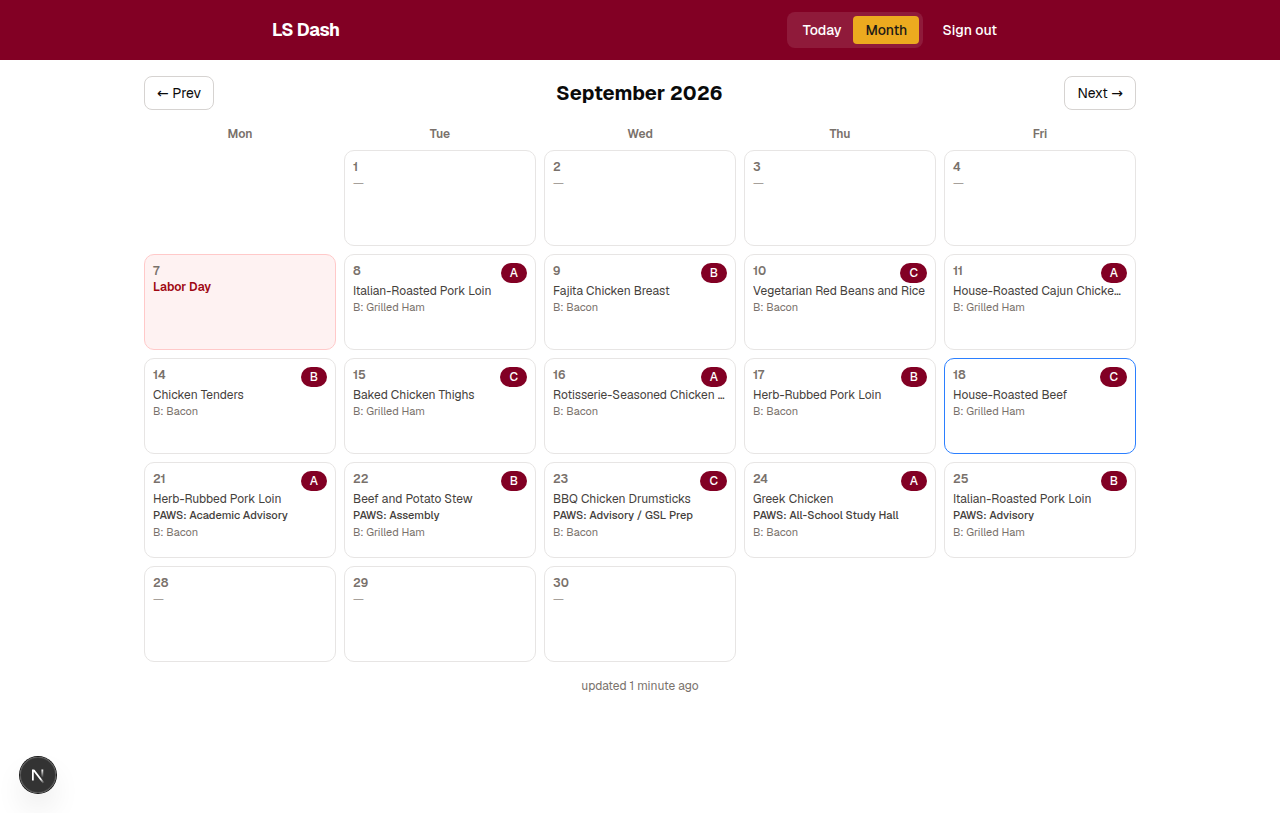
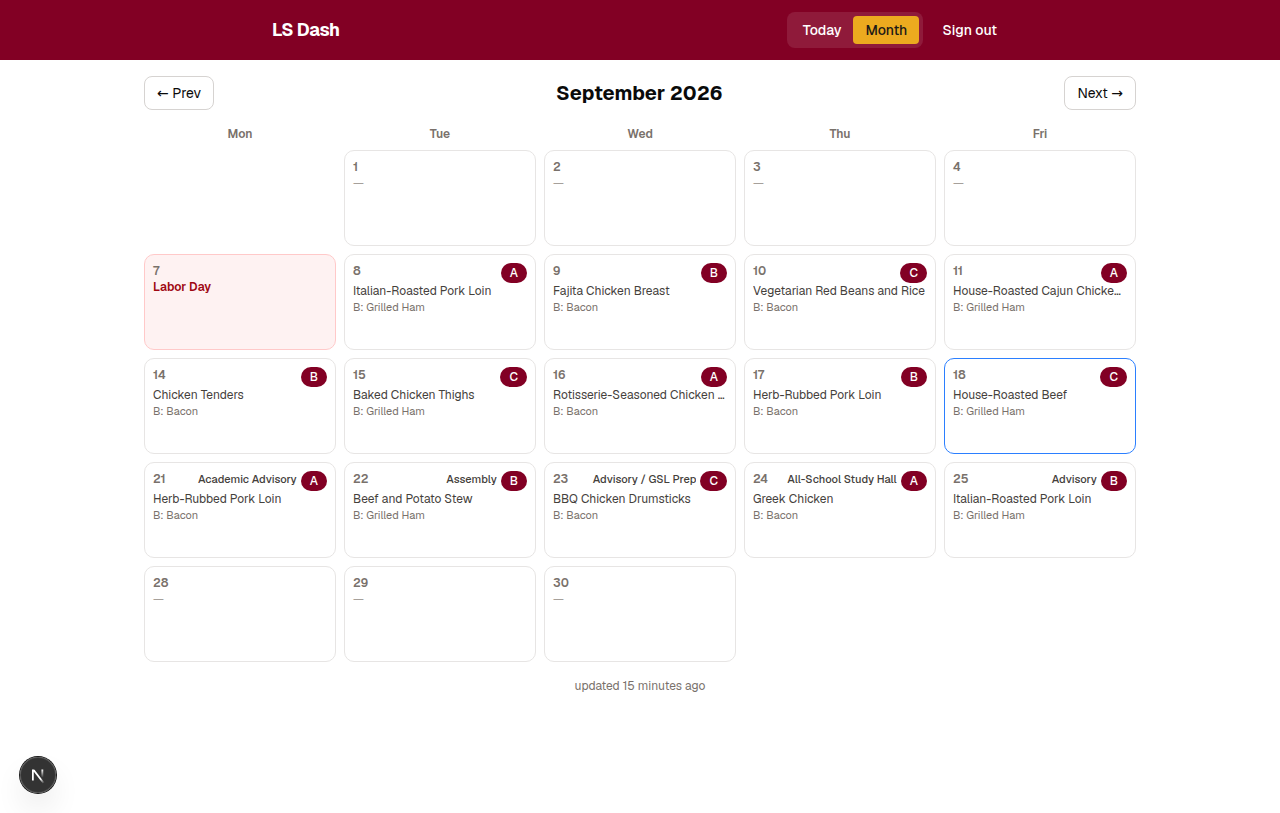
Month cells: PAWS in header on desktop, no prefix, no breakfast on mobile
Implemented With: T3 Code via muse-spark-1.3-contributor-free on opencode

diff --git a/src/app/month/page.tsx b/src/app/month/page.tsx
@@ -43,19 +43,21 @@ function CellBody({ day }: { day: DayDoc | undefined }) {
   const lunchEntree = pickCellEntree(day.lunch);
   // PAWS comes from the day doc (authenticated Firestore read), never from
   // the client bundle, so logged-out chunks reveal nothing school-specific.
+  // No "PAWS:" prefix: on mobile it is a body line, on desktop it sits in
+  // the cell header next to the day number.
   const paws = day.paws ?? null;
   const pawsLine = paws ? (
     <p
-      className="truncate text-[11px] font-medium text-stone-700"
+      className="truncate text-[11px] font-medium text-stone-700 sm:hidden"
       data-testid={`paws-month-${day.date}`}
-      title={`PAWS: ${paws.title}`}
+      title={paws.title}
     >
-      PAWS: {paws.title}
+      {paws.title}
     </p>
   ) : null;
   return (
     <div className="min-w-0">
-      {/* Priority: 1) day off / special, 2) ABC (top-right corner), 3) lunch, 4) PAWS, 5) breakfast */}
+      {/* Priority: 1) day off / special, 2) ABC (top-right corner), 3) lunch, 4) PAWS, 5) breakfast (desktop only) */}
       {day.isNoSchool ? (
         <>
           <p className="truncate text-xs font-semibold text-red-800" title={day.noSchoolLabel ?? "No school"}>
@@ -79,7 +81,7 @@ function CellBody({ day }: { day: DayDoc | undefined }) {
           )}
           {pawsLine}
           {day.breakfast.entree && (
-            <p className="truncate text-[11px] text-stone-500" title={`Breakfast: ${day.breakfast.entree}`}>
+            <p className="hidden truncate text-[11px] text-stone-500 sm:block" title={`Breakfast: ${day.breakfast.entree}`}>
               B: {day.breakfast.entree}
             </p>
           )}
@@ -203,6 +205,15 @@ function MonthInner() {
                             <p className="text-xs font-semibold text-stone-500">
                               {Number(id.slice(8, 10))}
                             </p>
+                            {day?.paws && (
+                              <p
+                                className="hidden min-w-0 flex-1 truncate text-right text-[11px] font-medium text-stone-700 sm:block"
+                                data-testid={`paws-month-${id}`}
+                                title={day.paws.title}
+                              >
+                                {day.paws.title}
+                              </p>
+                            )}
                             {day?.abc && !off && (
                               <Badge variant={day.isSpecial ? "secondary" : "default"}>
                                 {day.abc}
